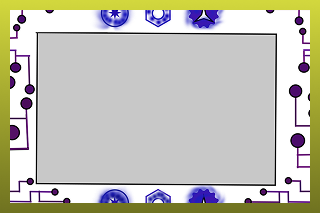
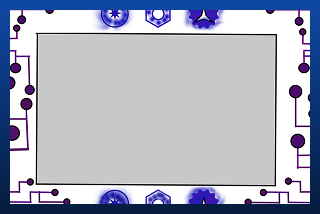
Add files via upload

Changed region(s): [[0.0, 0.0, 1.0, 1.0], [0.9062, 0.4507, 0.9375, 0.4789], [0.9062, 0.3944, 0.9375, 0.4225]]

diff --git a/Portfolio/Game Design.html b/Portfolio/Game Design.html
@@ -34,19 +34,85 @@
 			</ul>
 		</nav>	
 			
-		<main>
+		<main id = "Game">
             <section>
-			<h3>Project 1</h3>
-			<img src = "GameImg.png">
-			<h3>Project 2</h3>
-			<img src ="GameImg2.png">
+			<h3>Calling of the Werewolf</h3>
+			<a href = "CallingImg.png"><img src = "GameImg.png"></a>
+			</section>
+			<section>
+				<div class = "description">
+				<h3>Description</h3>
+			<p > - The this game is a small 2d platformer level made in unity. It was a project for my Game development class at ISU. The player must collect 10 coins and kill 5 enemies and then make it to the end goal in order to beat the game. Basic story of the game would be the player protecting the village from monsters.
+			</p>
+			</div>
+			</section>
+			<section>
+				<div class = "skills">
+				<h3>Skills</h3>
+			<p>- The game is programmed in C# and uses collection mechanics as it's main function. I have  a understanding of the basics and fundamentals of C#. These skills were learned from my Game development class at ISU.</p>
+		</div>
+			</section>
+			<section>
+			<h3>Lost space</h3>
+			<a href = "SpaceImg.png"><img src ="Lost space img.png"></a>
+			</section>
+			 <section>
+				<div class = "description">
+					<h3>Description </h3>
+				<p>
+					- Lost space is a 3d platformer where the player shoots enemies,collect health orbs if needed, and platform across to the door that leads to level 2. Level 2 would consist of the player collecting parts and interacting with other game objects as a way to "repair" broken machines.
+				</p>
+				</div>
 
-        </section>
+			</section>
+			<section>
+				<div class = "skills">
+					<h3>Skills</h3>
+					<p>-I used </p>
+				</div>
+			</section>
 
-		<section class = "description">
-			<h3>Description </h3>
-			<p > - The title of this game was "Calling of the werewolf" and it is a small 2d platformer level made in unity. It was a project for my Game development class at ISU. The player must collect 10 coins and kill 5 enemies and then make it to the end goal in order to beat the game.</p>
+			<section>
+				<h3>Combat Space Concept</h3>
+				<a href = "Game design visual space map.jpeg"><img src = "Combat space.png"></a>
+				</section>
+				 <section>
+					<div class = "description">
+						<h3>Description </h3>
+					<p>
+						- Lost space is a 3d platformer where the player shoots enemies,collect health orbs if needed, and platform across to the door that leads to level 2. Level 2 would consist of the player collecting parts and interacting with other game objects as a way to "repair" broken machines.
+					</p>
+					</div>
+	
+				</section>
+				<section>
+					<div class = "skills">
+						<h3>Skills</h3>
+						<p>-I used </p>
+					</div>
+				</section>
+
+			<!-- <h3>Combat Space Concept</h3>
+			<a href = "Game design visual space map.jpeg"><img src = "Combat space.png"></a>
+			</section> -->
+
+
+        
+
+		<!-- <section class = "description">
+			<h3>Descriptions </h3>
+			<p > - The title of this game was "Calling of the werewolf" and it is a small 2d platformer level made in unity. It was a project for my Game development class at ISU. The player must collect 10 coins and kill 5 enemies and then make it to the end goal in order to beat the game.
+
+
+			</p>
+			<p>
+				- Lost space is a 3d platformer where the player shoots enemies,collect health orbs if needed, and platform across to the door that leads to level 2. Level 2 would consist of the player collecting parts and interacting with other game objects as a way to "repair" broken machines.
+			</p>
 		</section>
+
+		<section class = "skills">
+			
+		</section> -->
 
             
             

diff --git a/Portfolio/Portfolio.css b/Portfolio/Portfolio.css
@@ -1,11 +1,14 @@
 body {
-  background-color: #999999;
+  background-image: linear-gradient(to right top, #767872, #8b908d,#a3a9a8, #bec2c3, #c1c2c4);
+  /* background-color: #999999;*/
+  
+
 }
 
 #wrapper {
   margin: 24px auto;
   width: 1200px;
-  border: 1px solid black;
+  border: 3px solid blue;
   padding: 24px;
   background-color: #ffffff;
   display: grid;
@@ -38,6 +41,12 @@ nav li a{
       text-decoration: none;
       display: block;
       padding:10px;
+      transition: all .5s;
+}
+nav li a:hover{
+  background-color: darkgreen;
+  color: blue;
+  
 }
 
 h1{
@@ -58,6 +67,13 @@ h1{
 main{
   grid-column: span 12;
   display: flex;
+  gap:24px;
+  margin-left: 120px;
+}
+#Game{
+  grid-column: span 12;
+  display: grid;
+  grid-template-columns: 1fr 1fr 1fr;
   gap:24px;
   margin-left: 120px;
 }
@@ -82,12 +98,59 @@ section h3{
   font-size: 24px;
    font-family: "Bad Script", cursive;
 }
+section h3 a{
+  
+  color:blue;
+  display: block;
+  font-size: 24px;
+   font-family: "Bad Script", cursive;
+}
+section h3 a:hover{
+  color:green;
+  font-size: 24px;
+   font-family: "Bad Script", cursive;
+}
+aside h3 a{
+  color:blue;
+  text-decoration: none;
+  display: block;
+  font-size: 30px;
+   font-family: "Bad Script", cursive;
+}
+aside h3 a:hover{
+  color:green;
+  font-size: 30px;
+   font-family: "Bad Script", cursive;
+}
+
+section a{
+  text-decoration: none;
+  
+}
+section a:hover{
+  
+  color: blue;
+  
+  
+}
 
 section img{
   width: 100%;
   
   
 }
+section a:hover img{
+  transform:scale(1.1);
+}
+aside a:hover img{
+  transform:scale(1.1);
+}
+
+.changesize{
+  width:60%;
+}
+
+
 aside{
     font-size: 30px;
     font-weight: bold;
@@ -96,31 +159,54 @@ aside{
     color: blue;
     grid-column: span 10;
     border: 4px solid blue;
-    background-image: linear-gradient(to right top, #dadbdc, #bec2c3, #a3a9a8, #8b908d, #767872);
+    background-image: linear-gradient(to right top, #767872, #8b908d,#a3a9a8, #bec2c3, #c1c2c4);
    width:400px;
+   height: 600px;
    padding: 0 1em 1em 1em;
-   margin-left: 70px;
+   margin-left: 90px;
+   margin-top: 70px ;
    font-family: "Bad Script", cursive;
 
 
 }
 .description{
   font-family: Georgia, 'Times New Roman', Times, serif;
-  
-  color: blue;
+  text-align:justify;
+  color: white;
   grid-column: span 8;
   border: 4px solid blue;
   background-image: linear-gradient(to right top, #dadbdc, #bec2c3, #a3a9a8, #8b908d, #767872);
- width:300px;
+  width:300px;
+  padding: 0 1em 1em 1em;
+  margin-left: 50px;
+
+}
+.description h3{
+  color:white;
+}
+
+.skills{
+  font-family: Georgia, 'Times New Roman', Times, serif;
+  text-align: justify;
+  color: white;
+  grid-column: span 8;
+  border: 4px solid blue;
+  background-image: linear-gradient(to right top, #dadbdc, #bec2c3, #a3a9a8, #8b908d, #767872);
+ width:250px;
  padding: 0 1em 1em 1em;
- margin-left: 70px;
+ margin-left: 50px;
+}
+.skills h3{
+  color:white;
 }
 #myCarousel{
   margin-bottom: 12px;
   grid-column: 4/10;
+  border:3px solid blue;
 }
 #myCarousel img{
   width:90%;
+  height:100%;
 }
 #myCarousel .f-carousel__slide {
   text-align: center;
@@ -135,12 +221,13 @@ aside{
   --f-button-svg-height: 16px;
   --f-button-svg-stroke-width: 2.5;
 
-  --f-button-color: rgb(236, 233, 31);
+  --f-button-color: rgb(40, 26, 248);
   --f-button-border-radius: 50%;
   --f-button-shadow: 0 6px 12px -2px rgb(50 50 93 / 25%), 0 3px 7px -3px rgba(125, 20, 223, 0.3);
 
   --f-button-bg: #09af32;
   --f-button-hover-bg: #096118;
+  --f-button-hover-color:blue;
   --f-button-active-bg: #310ead;
 }
 

diff --git a/Portfolio/MainPage.html b/Portfolio/MainPage.html
@@ -23,10 +23,19 @@
 <body>
 	<div id="wrapper">
 		<h1> AJ's Portfolio</h1>
+		<nav>
+			<ul>
+				<li><a href ="Visual.html">Visual Design</a></li>
+				<li><a href ="Contact.html"> Contact </a></li>
+				<li><a href ="MainPage.html">Home</a></li>
+				<li><a href ="Game Design.html">Game Design</a></li>
+                <li><a href ="Narrative.html">Narrative Design</a></li>
+			</ul>
+		</nav>	
 		<h2>Projects</h2>
 		
 			<div id="myCarousel" class="f-carousel">
-				<div class="f-carousel__slide"><img src="Futuristic inventory 2.0.png"></div>
+				<div class="f-carousel__slide"><img src="Menu.png"></div>
 				<div class="f-carousel__slide"><img src="Game design visual space map.jpeg"></div>
 				<div class="f-carousel__slide"><img src="GameImg.png"></div>
 			</div>
@@ -34,20 +43,21 @@
 		<main>
 			
 			<section>
-			<h3><i class="bi bi-controller"></i> Game Design </h3> 
+			<h3><a href = "Game Design.html"><i class="bi bi-controller"></i> Game Design </a></h3> 
 			
 			<a href ="Game Design.html"><img src ="GameImg.png"></a>
-			<h3> <i class="bi bi-pencil-fill"></i>Visual Design</h3>
+
+			<h3><a href = "Visual.html">  <i class="bi bi-pencil-fill"></i>Visual Design </a></h3>
 
 			<a href ="Visual.html"><img src = "Futuristic inventory 2.0.png"></a>
 
-			<h3><i class="bi bi-controller"></i> Narrative Design </h3> 
+			<h3><a href = "Narrative.html"><i class="bi bi-controller"></i> Narrative Design </a></h3>
 			
 			<a href ="Narrative.html"><img src ="GameImg.png"></a>
 			</section>
 			<aside>
-				<h3> <i class="bi bi-person-circle"></i> Contact</h3>
-				<img src = "IMG_4133.png">
+				<h3> <a href = "Contact.html"><i class="bi bi-person-circle"></i> About Me </a></h3>
+				<a href ="Contact.html"><img src = "About.png"></a>
 			</aside>
 
 			

diff --git a/Portfolio/Visual.html b/Portfolio/Visual.html
@@ -37,17 +37,23 @@
 			
 		<main>
 			
-			<section>
-				<h3>Project 1</h3>
-				<img src = "Futuristic inventory 2.0.png">
-				<h3>Project 2</h3>
-				
+			<section class ="changesize">
+				<h3>Character Menu</h3>
+				<img src = "Menu.png">
+				<h3>Inventory Menu</h3>
+				<img src ="Inventory.png">
 	
 			</section>
 	
 			<section class = "description">
-				<h3>Description </h3>
-				<p > - This is a inventory UI design made for my UI/UX design course at ISU. The idea behind this is making a UI asset based on another student's idea.</p>
+				
+				<h3>Descriptions </h3>
+				<p > -Character Menu: UI design made for my UI/UX design course at ISU. The idea behind this is making a UI asset based on another student's idea. The frame that the student wanted was a futurstic/cybernetic look. The frame shows the character name in bottom left and the level in the bottom right. The top is the navigation for the player to access other menus.</p>
+					<p>
+						-Inventory Menu: 
+				</p>
+				<h3>Skills</h3>
+				<p>This design was created using adobe photoshop and also figma so I have decent understanding of how to use those tools to create UI elements.</p>
 			</section>
 	
 				
@@ -62,4 +68,4 @@
 	</div>
 	
 </body>
-</html>
+</h

diff --git a/Portfolio/Contact.html b/Portfolio/Contact.html
@@ -22,7 +22,7 @@
 </head>
 <body>
 	<div id="wrapper">
-		<h1> Contact</h1>
+		<h1> About Me</h1>
 		
 		<nav>
 			<ul>
